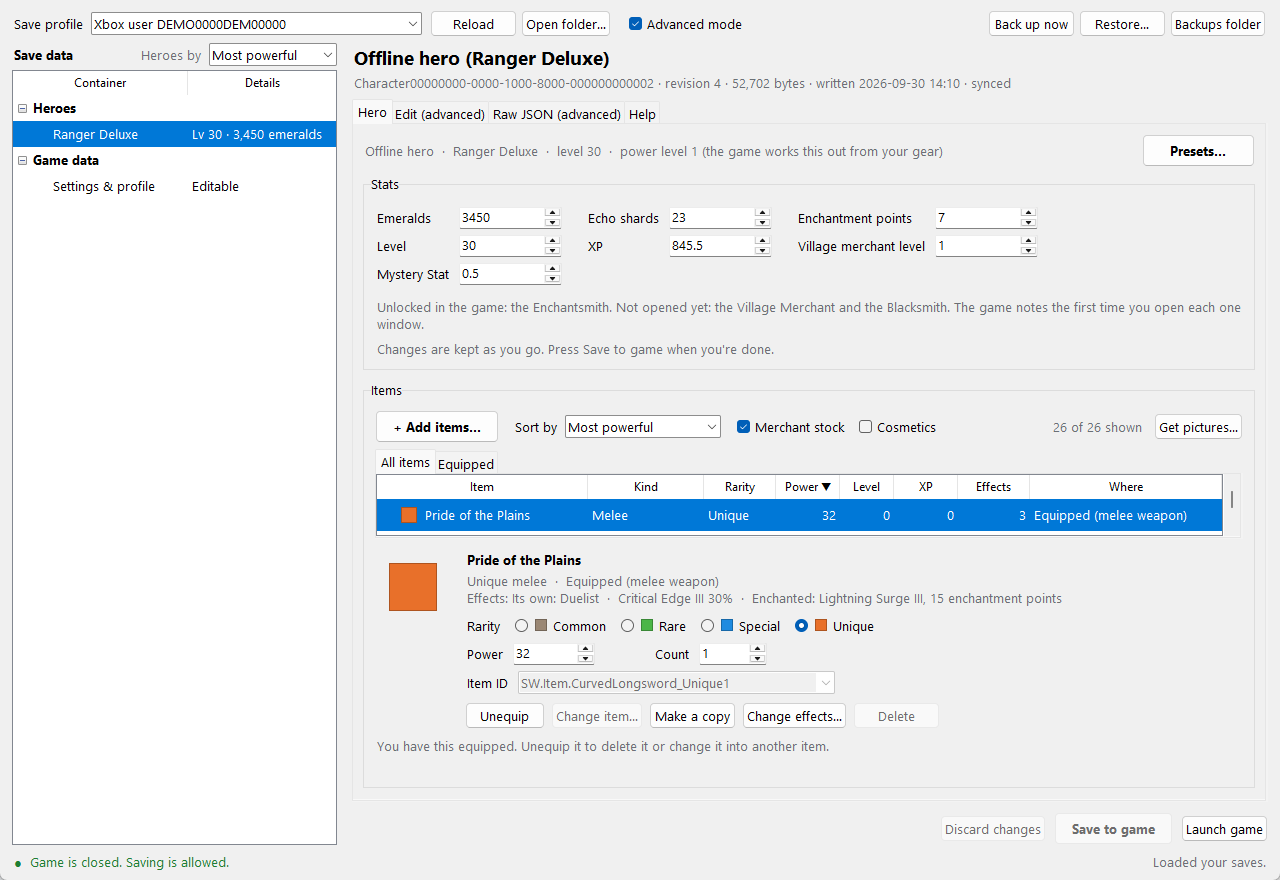
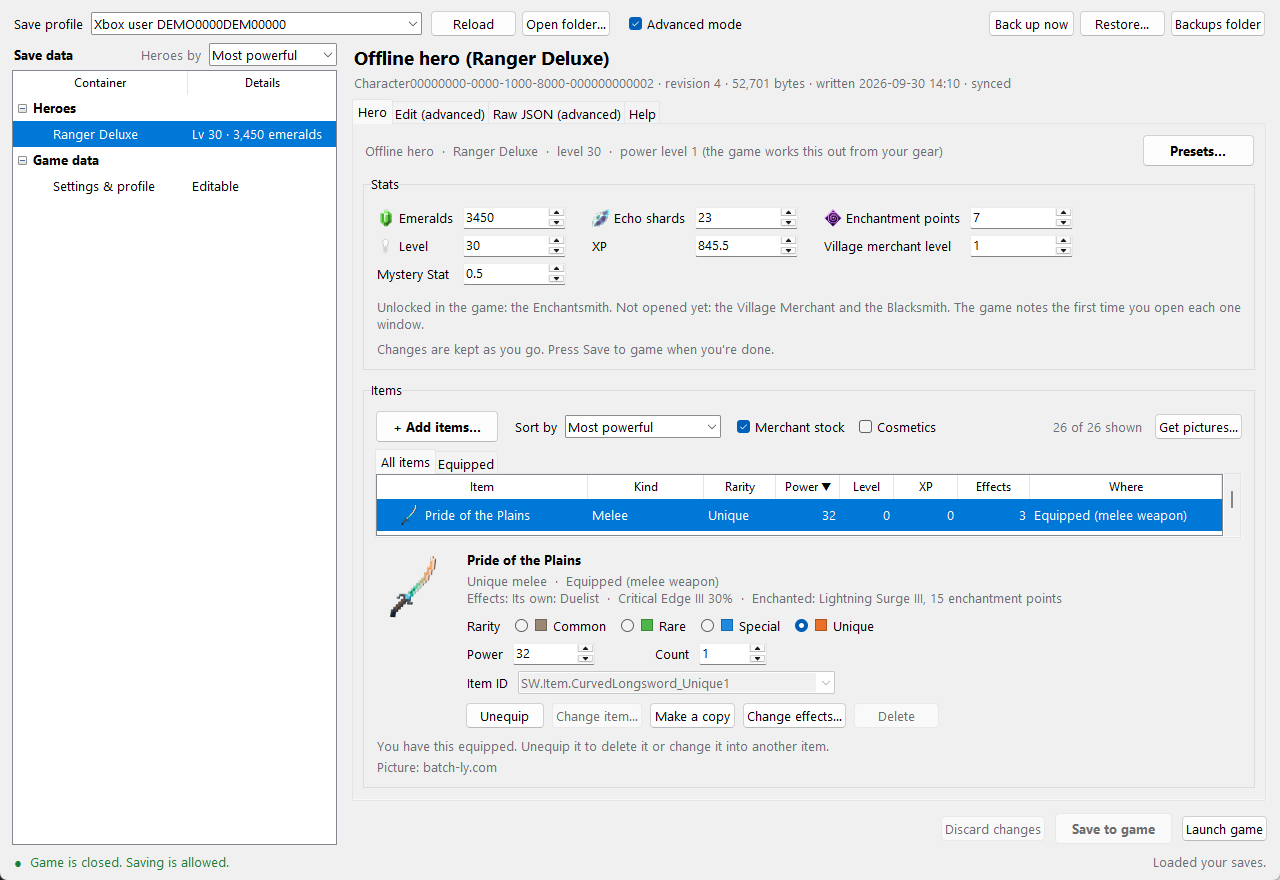
The README's pictures as the editor looks in 1.15.4, with its item pictures
Taken from the made-up demo save, with the picture pack in the icons folder as the editor has it once it has
downloaded it. The pictures themselves stay out of the repository.

diff --git a/README.md b/README.md
@@ -298,11 +298,11 @@ trademark of Mojang Synergies AB. Use it at your own risk and keep your backups.
   [tier list](https://metabot.gg/en/minecraft-dungeons-2/tier-list) and other guides; each preset links its pages.
 - Item pictures are Mojang's artwork. The editor downloads the game's own to your PC from the developer's site,
   batch-ly.com, and **Get item pictures…** gets the [Minecraft Wiki](https://minecraft.wiki)'s if those aren't
-  there. None of them is in this repository or in the download; one screenshot in the What's new window shows the
-  editor with them. The other screenshots use a made-up demo save and the editor's own drawings.
+  there. The pictures themselves are not in this repository or in the download. The screenshots, here and in the
+  What's new window, show the editor with them, on a made-up demo save.
 - Simple mode follows the idea of [MCDSaveEdit](https://github.com/CutFlame/MCDSaveEdit), the save editor for the
   first Minecraft Dungeons, which is laid out like that game's inventory. Its colours and layout follow Minecraft
-  Dungeons II's own inventory screen; the fonts are Windows' own and the icons are drawn by the editor.
+  Dungeons II's own inventory screen; the fonts are Windows' own, and the interface's own icons are drawn by the editor.
 - The Liquid Glass look follows Apple's design of that name (capsule buttons, rounded panels with a bright rim, one
   tinted button for the main action, glass for the controls and not for the content). Every shape in it is drawn by
   the editor itself, the first time you pick the look (`dungeons2_editor/glass.py`); no picture files are involved.

diff --git a/CHANGELOG.md b/CHANGELOG.md
@@ -21,9 +21,9 @@ The short notes for the newest versions are on the
   - They go into the icons folder's `pack` folder. Your own pictures still win over them, and they win over the
     Minecraft Wiki's. Each download is checked against the size and the SHA-256 that the set's list gives for
     it, and only a PNG picture is kept.
-  - The pictures are Mojang's artwork. They are not in the repository or the download, apart from one screenshot
-    in the What's new window that shows the editor with them, and the edition that never goes online doesn't
-    fetch them. The README's privacy list says what the editor now contacts.
+  - The pictures are Mojang's artwork. The pictures themselves are not in the repository or the download; the
+    screenshots in the README and in the What's new window show the editor with them. The edition that never
+    goes online doesn't fetch them. The README's privacy list says what the editor now contacts.
 - **What's new can show a picture, and waits to be closed after an update.** A change that is easier to show than
   to tell has a picture under it. The pictures ship with the editor, so nothing is fetched to show them. The
   window that a new version opens by itself now stays in front until you close it; **Menu → What's new…** opens
